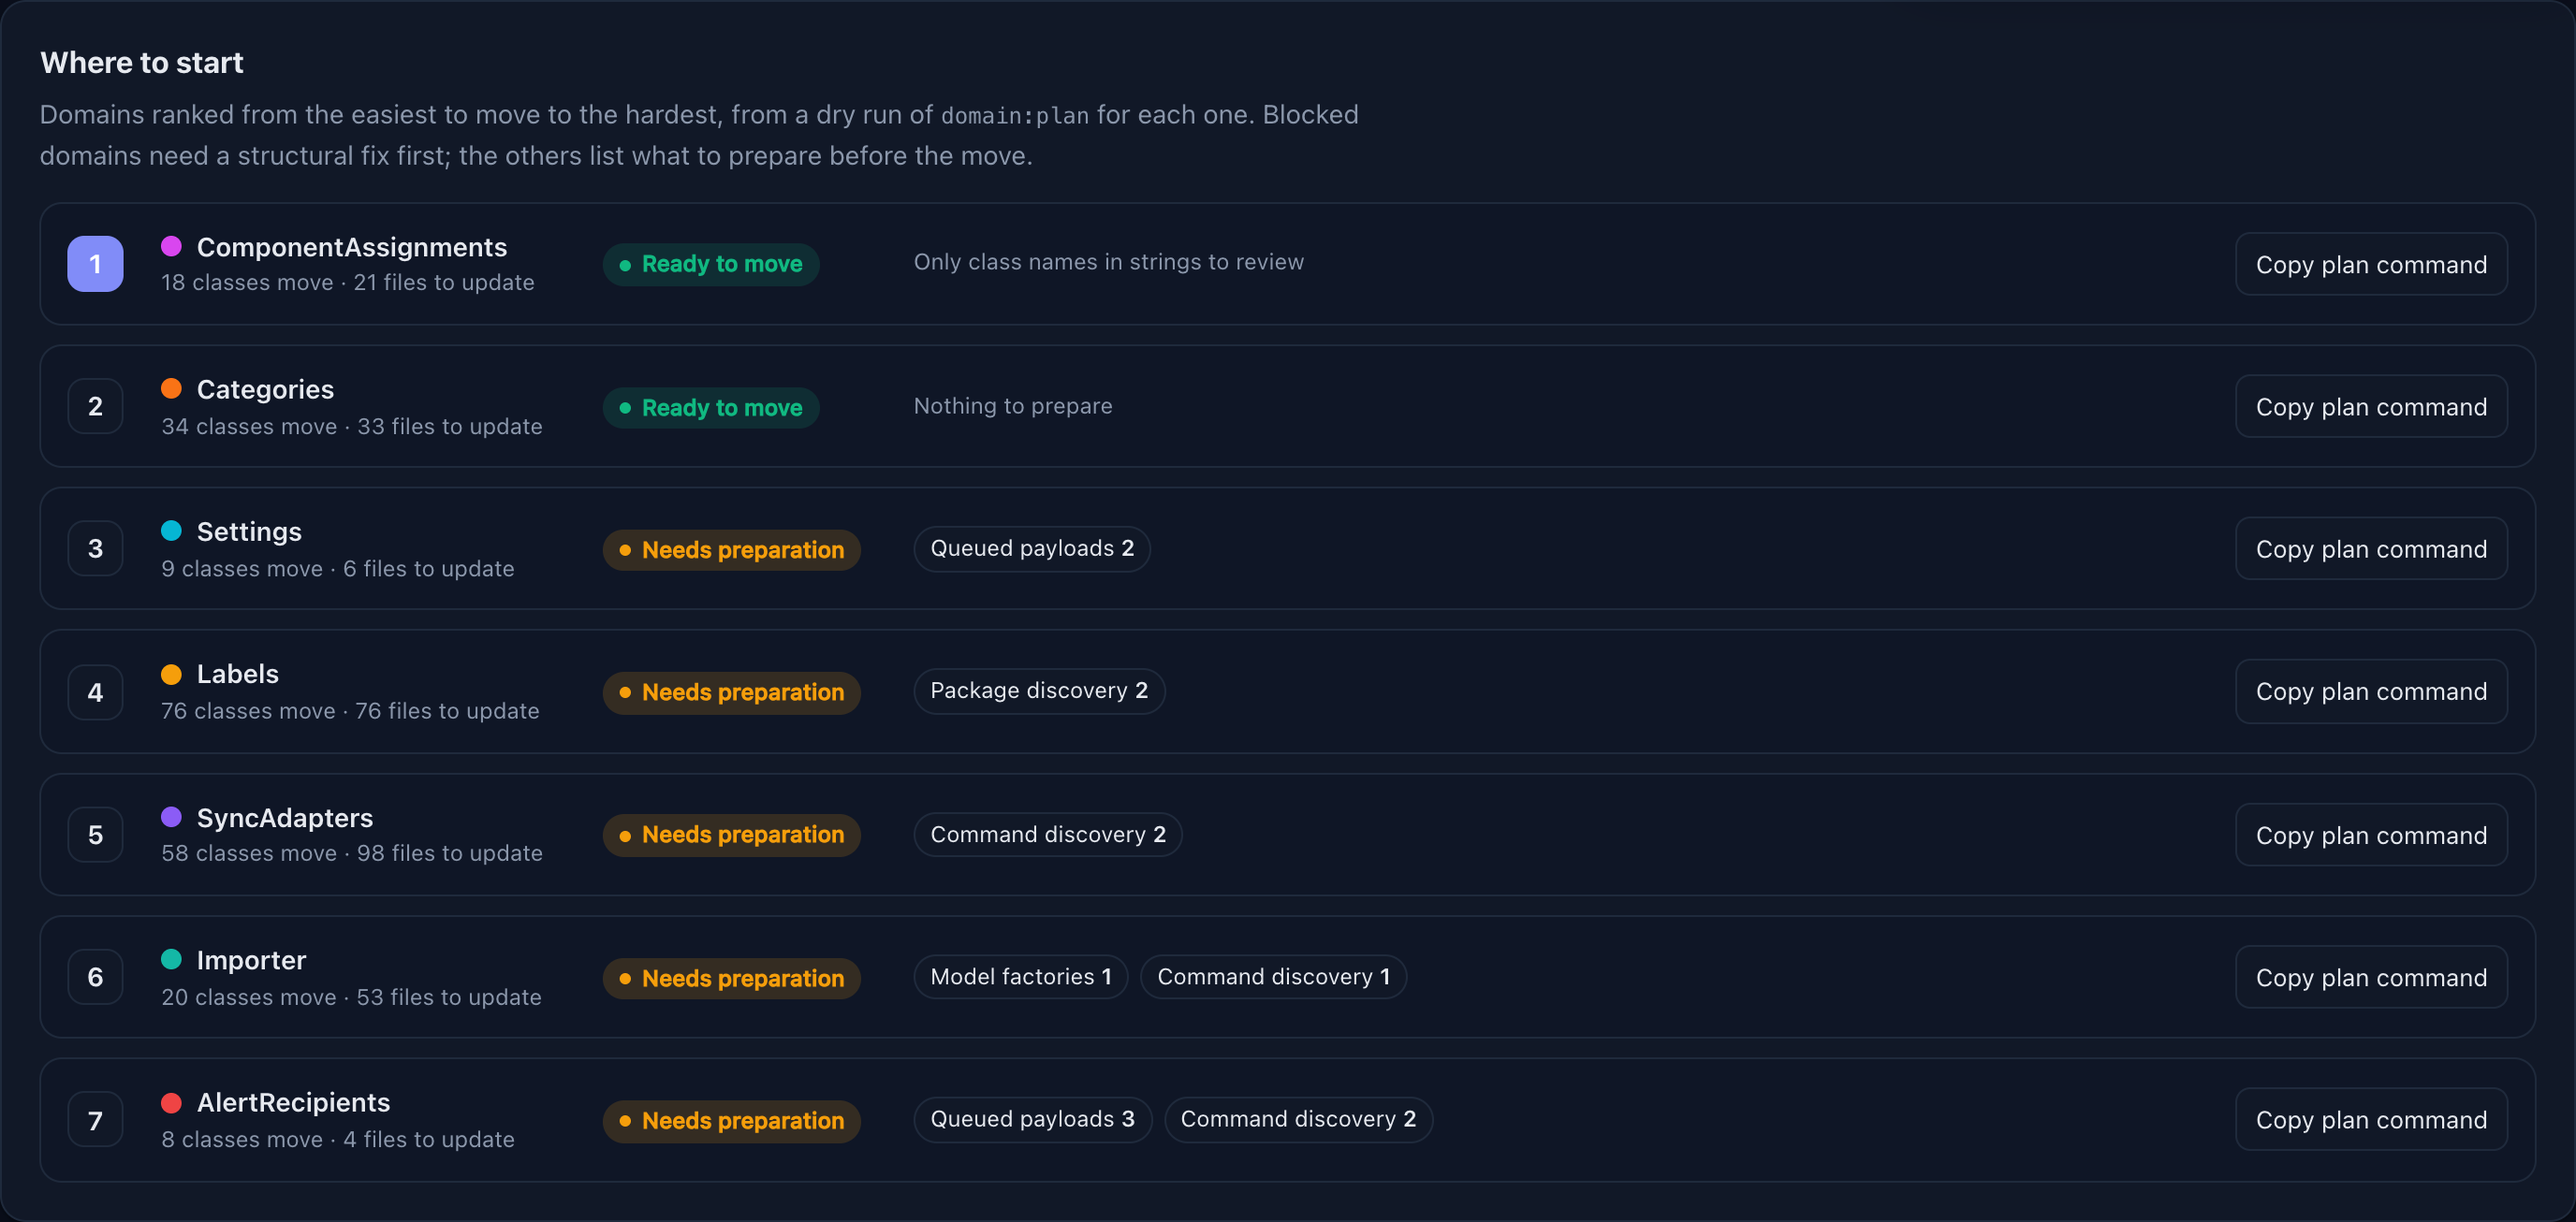
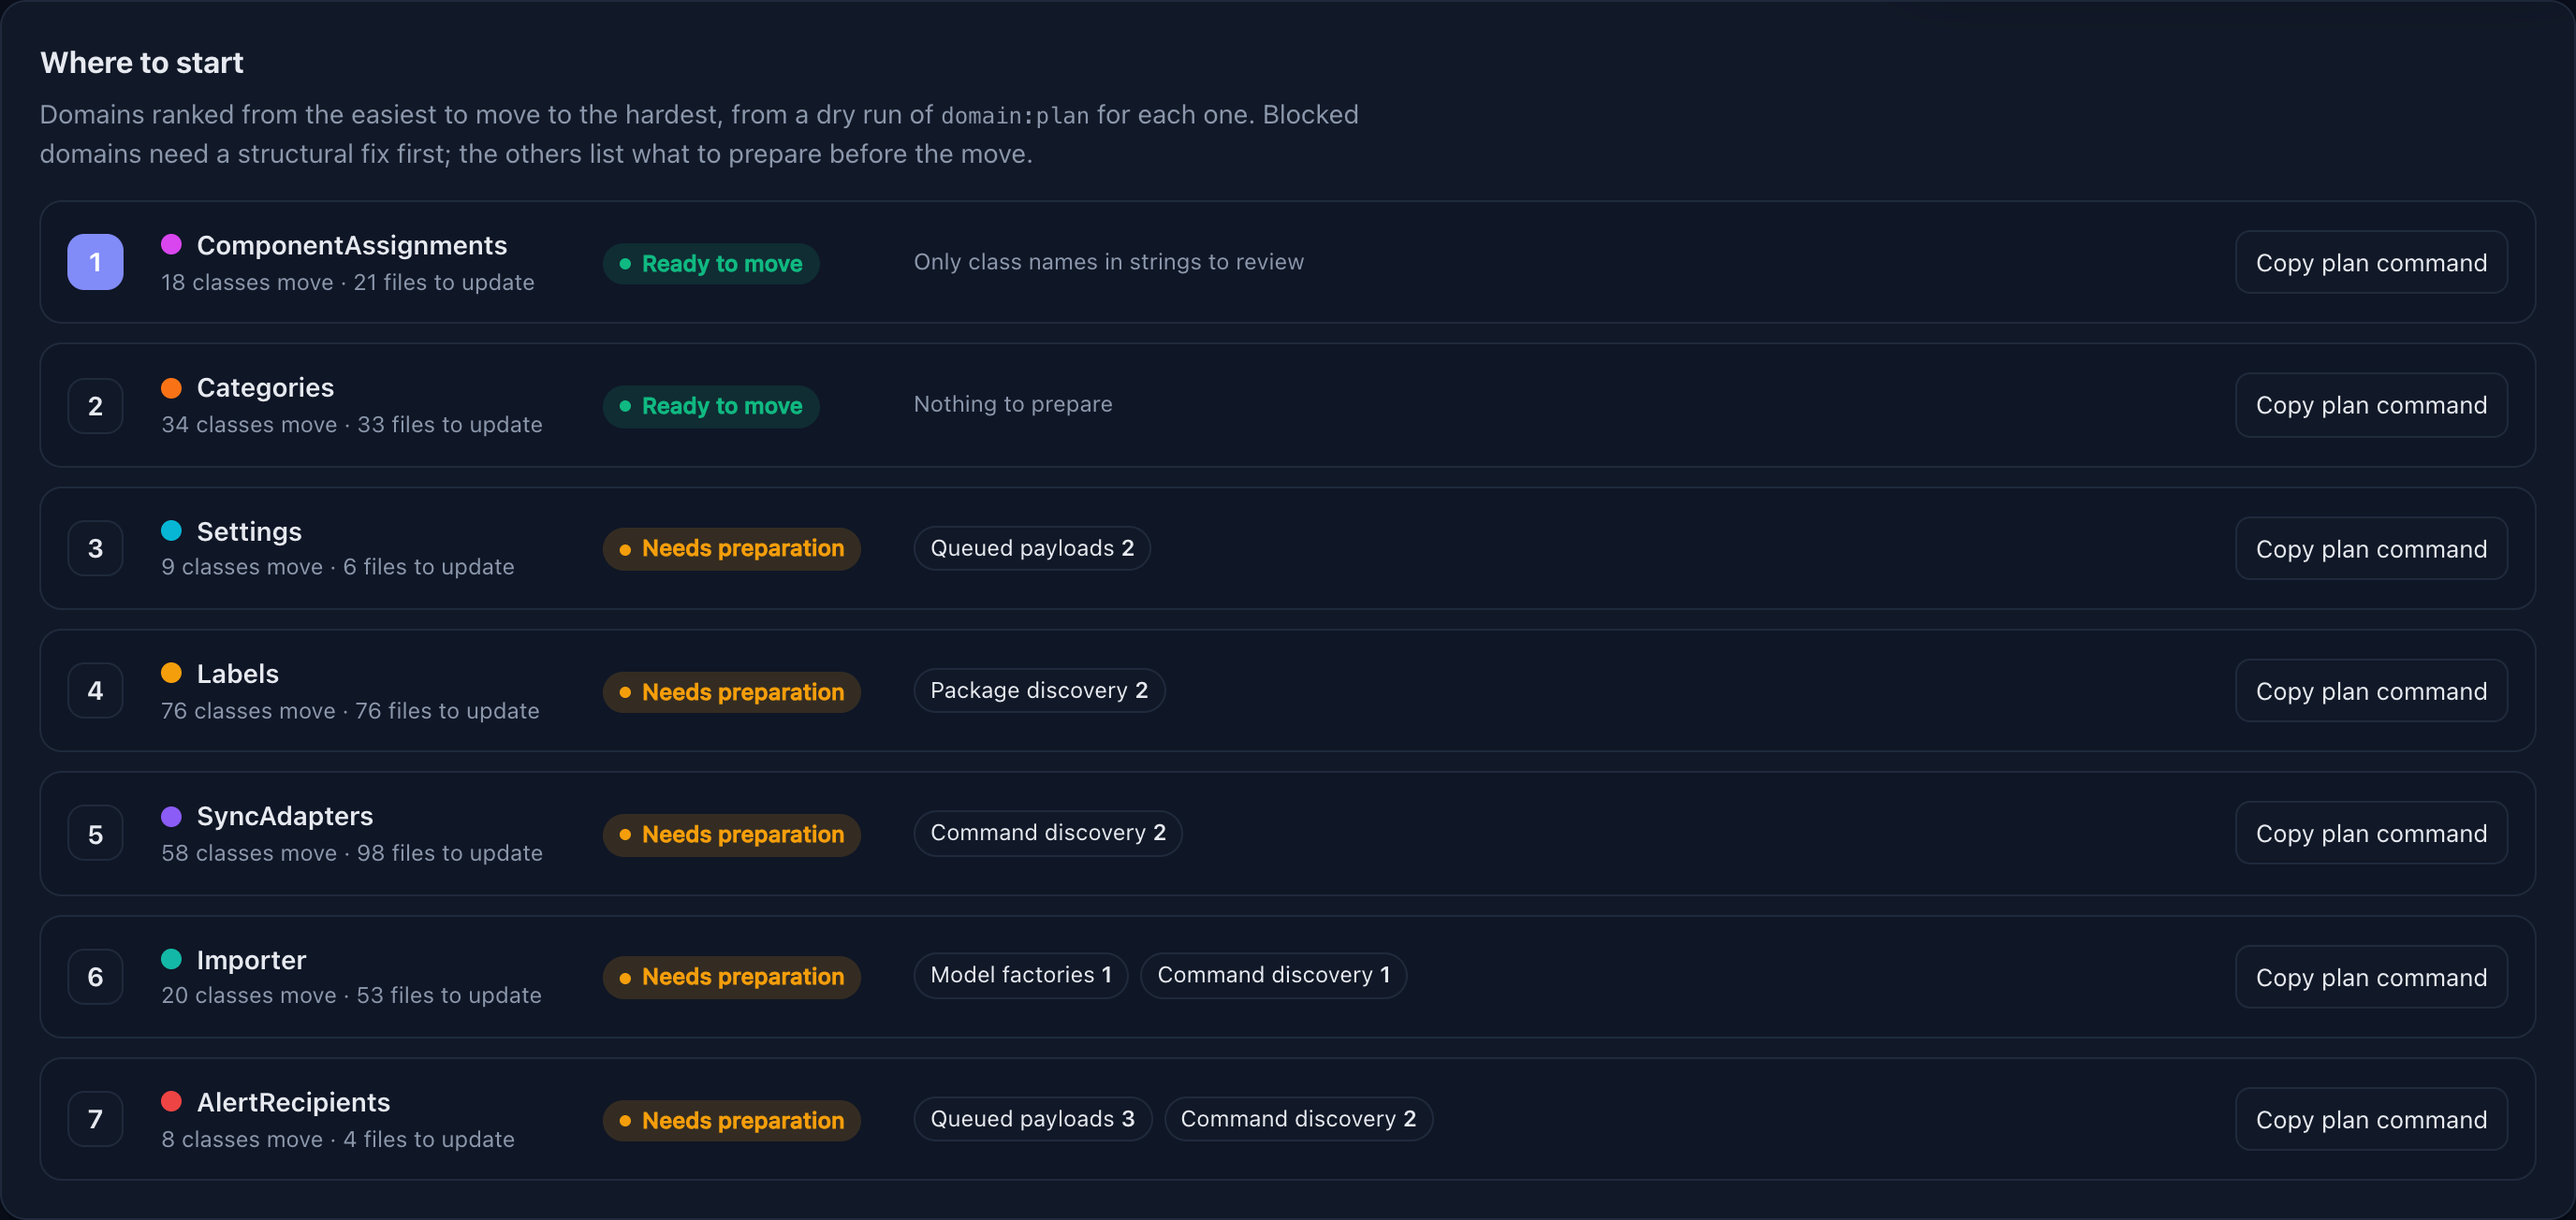
docs: refresh report screenshots and add social preview asset (#2)
Update Snipe-IT HTML and where-to-start images; add 1280x640 art for
GitHub repository social preview upload.

diff --git a/README.md b/README.md
@@ -16,9 +16,9 @@ php artisan domain:analyze --format=html
 
 > **Status:** pre-1.0. Analyze, enforce boundaries and dry-run migration plans are usable today; `domain:move` is next on the roadmap. The API may still change between minor versions.
 
-![HTML report for Snipe-IT: domain graph, readiness ranking and move risks for the Assets domain](https://raw.githubusercontent.com/mertbag96/laravel-domain-migrator/main/art/html-report.png)
+![HTML report for Snipe-IT: app title, domain graph, and move risks for the Assets domain](https://raw.githubusercontent.com/mertbag96/laravel-domain-migrator/main/art/html-report.png)
 
-<sub>The HTML report for [Snipe-IT](https://github.com/grokability/snipe-it) (720 classes, 13 suggested domains), generated in a few seconds on a large app.</sub>
+<sub>The HTML report for [Snipe-IT](https://github.com/grokability/snipe-it) (720 classes, 13 suggested domains). The header shows which app the file belongs to.</sub>
 
 ![Where to start: domains ranked by how easy they are to move first](https://raw.githubusercontent.com/mertbag96/laravel-domain-migrator/main/art/where-to-start.png)
 

diff --git a/CHANGELOG.md b/CHANGELOG.md
@@ -9,6 +9,7 @@ The format is based on [Keep a Changelog](https://keepachangelog.com/en/1.1.0/),
 ### Added
 
 - Minimal contribution docs: [CONTRIBUTING.md](CONTRIBUTING.md), [SECURITY.md](SECURITY.md), optional issue and pull request templates.
+- Updated README screenshots and `art/social-preview.png` (1280×640) for the repository social preview.
 
 ## [0.4.2] - 2026-10-18
 
